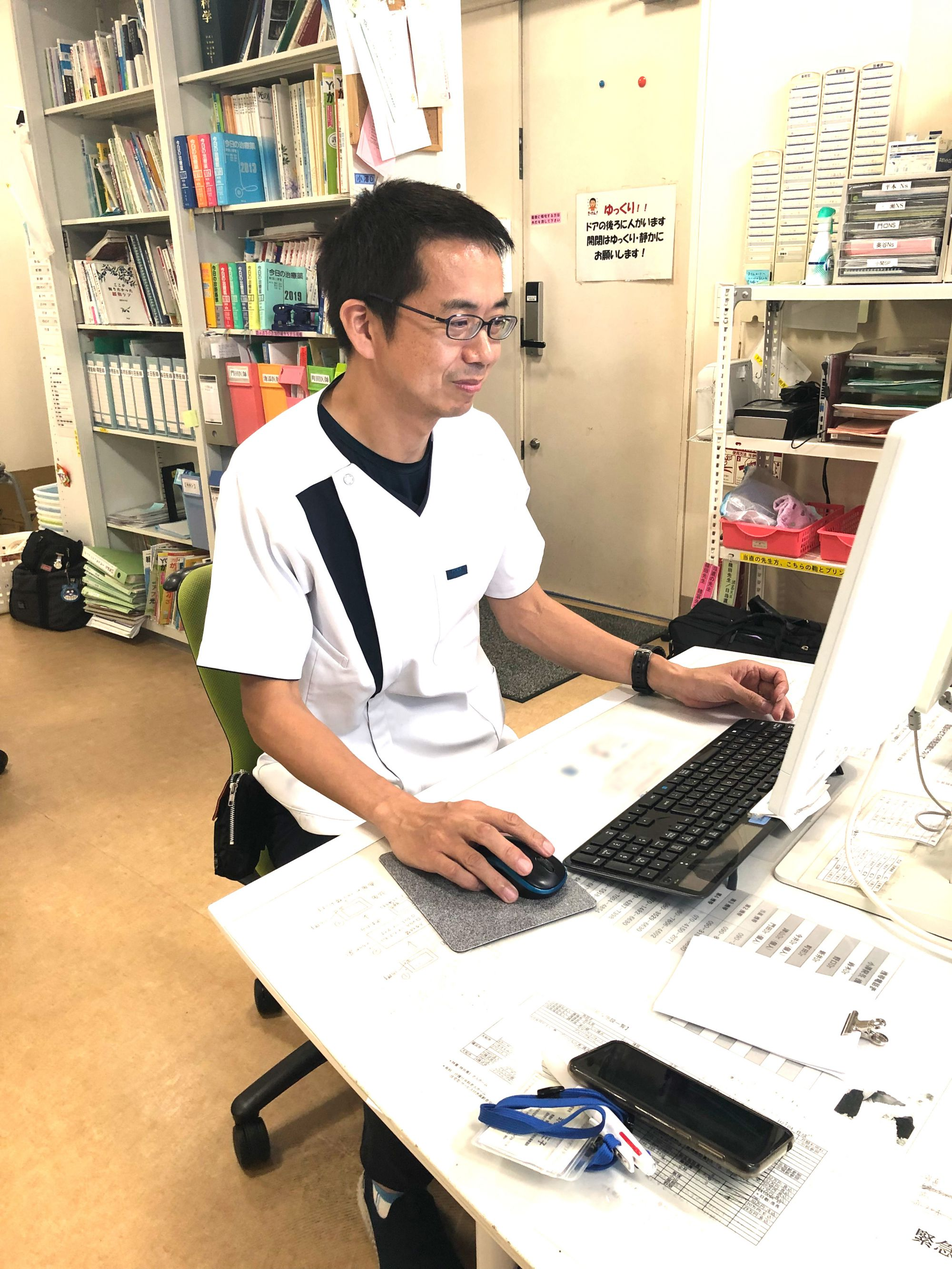
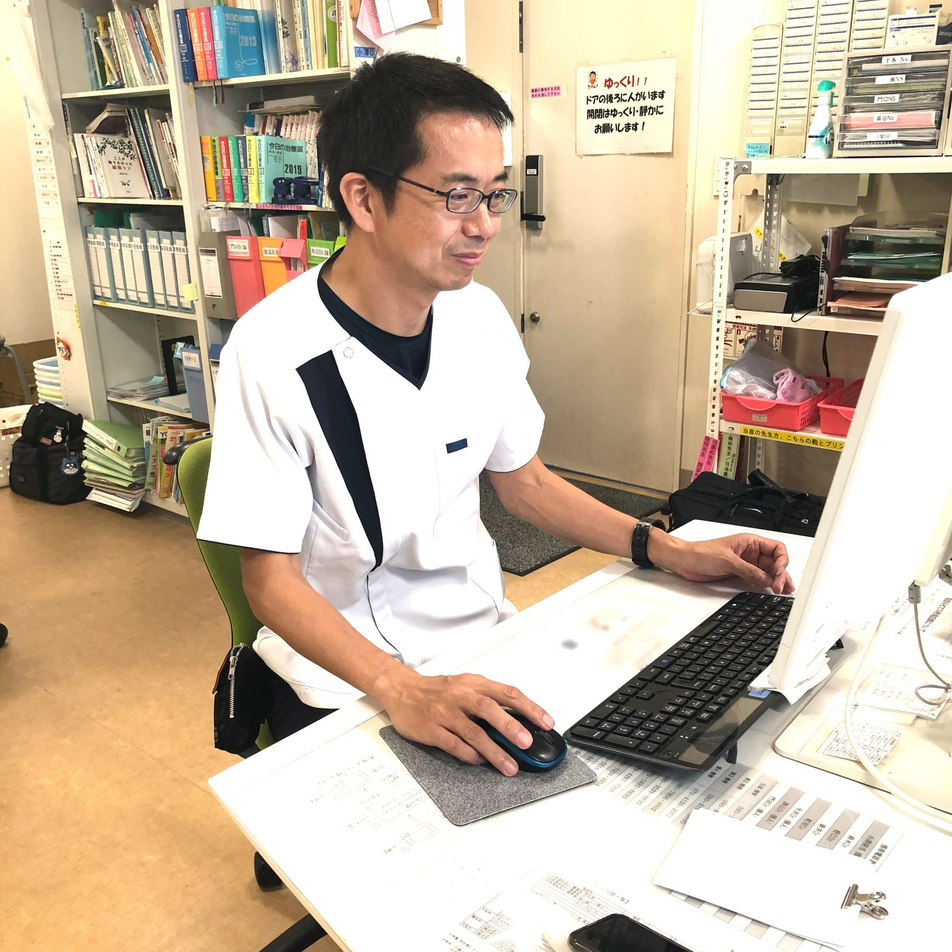
fix: スタッフ写真を画像ファイルレベルで正方形クロップに変更
CSS scale/positionでの調整を廃止し、sipsで全16枚を
顔中心の正方形にクロップ。表示は1:1のobject-cover。

diff --git a/src/data/staff.ts b/src/data/staff.ts
@@ -31,8 +31,8 @@ export const staffMembers: StaffMember[] = [
       "苦しんでいる人は、自分の苦しみをわかってくれる人がいると嬉しい。その信念のもと、在宅緩和ケアに取り組んでいます。",
     hasPhoto: true,
     photoFile: "director-portrait.jpg",
-    photoPosition: "center 20%",
-    photoScale: 1.8,
+    photoPosition: "center center",
+    photoScale: 1,
   },
   {
     name: "岩渕敬介",
@@ -58,8 +58,8 @@ export const staffMembers: StaffMember[] = [
       "川崎市出身。2004年横浜市立大学医学部卒業。神奈川県足柄上郡・北海道砂川市など、地域医師が少ない地域で18年間勤務。",
     hasPhoto: true,
     photoFile: "20230502.jpg",
-    photoPosition: "center 20%",
-    photoScale: 2.0,
+    photoPosition: "center center",
+    photoScale: 1,
   },
   {
     name: "津山梓",
@@ -82,8 +82,8 @@ export const staffMembers: StaffMember[] = [
       "横浜市出身。山口大学卒業後、家族ぐるみで診れる家庭医を目指す。",
     hasPhoto: true,
     photoFile: "20171128.jpg",
-    photoPosition: "center 25%",
-    photoScale: 1.3,
+    photoPosition: "center center",
+    photoScale: 1,
   },
   {
     name: "今井洋史",
@@ -109,8 +109,8 @@ export const staffMembers: StaffMember[] = [
       "どんな病気であったとしても、安心して自宅で生活を送るため、豊富な経験をもとにお手伝いいたします。",
     hasPhoto: true,
     photoFile: "doc-3.jpg",
-    photoPosition: "40% 15%",
-    photoScale: 2.5,
+    photoPosition: "center center",
+    photoScale: 1,
   },
   {
     name: "栗田瑛里子",
@@ -146,8 +146,8 @@ export const staffMembers: StaffMember[] = [
     societies: ["在宅医学会", "緩和医療学会"],
     hasPhoto: true,
     photoFile: "20171211.jpg",
-    photoPosition: "center 20%",
-    photoScale: 2.0,
+    photoPosition: "center center",
+    photoScale: 1,
   },
   {
     name: "門田庸子",
@@ -160,8 +160,8 @@ export const staffMembers: StaffMember[] = [
     interests: ["緩和ケア", "ペインクリニック", "アニマルセラピー"],
     hasPhoto: true,
     photoFile: "20171204.jpg",
-    photoPosition: "center 25%",
-    photoScale: 1.5,
+    photoPosition: "center center",
+    photoScale: 1,
   },
   {
     name: "小菅宇之",
@@ -179,8 +179,8 @@ export const staffMembers: StaffMember[] = [
       "在宅医療と救急医学は表裏一体の関係。訪問診療患者の生活が全体的にレベルアップできることを目指します。",
     hasPhoto: true,
     photoFile: "20171212-4.jpg",
-    photoPosition: "center 20%",
-    photoScale: 2.0,
+    photoPosition: "center center",
+    photoScale: 1,
   },
   {
     name: "太田一樹",
@@ -228,8 +228,8 @@ export const staffMembers: StaffMember[] = [
     interests: ["心臓病の地域リハビリテーション"],
     hasPhoto: true,
     photoFile: "20190814-4.jpg",
-    photoPosition: "center 15%",
-    photoScale: 2.0,
+    photoPosition: "center center",
+    photoScale: 1,
   },
   {
     name: "張秀一",
@@ -255,8 +255,8 @@ export const staffMembers: StaffMember[] = [
       "大学病院で新型コロナウィルス感染症診療や肺がん診療に携わってまいりました。",
     hasPhoto: true,
     photoFile: "20230425-1.jpg",
-    photoPosition: "center 20%",
-    photoScale: 2.0,
+    photoPosition: "center center",
+    photoScale: 1,
   },
   {
     name: "岡田知也",
@@ -295,8 +295,8 @@ export const staffMembers: StaffMember[] = [
       "地域に密着した在宅医療に興味を持ち、丁寧な対応を心がけ、患者さんやご家族が穏やかに過ごせるよう支援いたします。",
     hasPhoto: true,
     photoFile: "nurse-2.jpg",
-    photoPosition: "center 25%",
-    photoScale: 1.5,
+    photoPosition: "center center",
+    photoScale: 1,
   },
   {
     name: "佐藤郁恵",
@@ -307,8 +307,8 @@ export const staffMembers: StaffMember[] = [
       "在宅医療に関わってきて、患者さん、ご家族が在宅で穏やかに過ごせるようサポートいたします。",
     hasPhoto: true,
     photoFile: "20190826.jpg",
-    photoPosition: "center 25%",
-    photoScale: 1.5,
+    photoPosition: "center center",
+    photoScale: 1,
   },
   {
     name: "島津綾子",
@@ -326,8 +326,8 @@ export const staffMembers: StaffMember[] = [
     department: "看護",
     hasPhoto: true,
     photoFile: "20190814-3.jpg",
-    photoPosition: "center 25%",
-    photoScale: 1.5,
+    photoPosition: "center center",
+    photoScale: 1,
   },
   {
     name: "久保田明日香",
@@ -338,8 +338,8 @@ export const staffMembers: StaffMember[] = [
       "先生方と患者さんの診察がスムーズに運ぶよう、お手伝いさせていただきます。",
     hasPhoto: true,
     photoFile: "20230306.jpg",
-    photoPosition: "center 25%",
-    photoScale: 1.5,
+    photoPosition: "center center",
+    photoScale: 1,
   },
   {
     name: "片桐文",
@@ -350,8 +350,8 @@ export const staffMembers: StaffMember[] = [
       "患者さんとご家族の不安や苦痛に寄り添い、意思決定を支える看護師でありたいと思います。",
     hasPhoto: true,
     photoFile: "20231010.jpg",
-    photoPosition: "center 25%",
-    photoScale: 1.5,
+    photoPosition: "center center",
+    photoScale: 1,
   },
 
   // === 地域連携室 ===
@@ -364,8 +364,8 @@ export const staffMembers: StaffMember[] = [
       "訪問診療に関する相談とディグニティセラピーを担当。住み慣れた場所での過ごしをお手伝いいたします。",
     hasPhoto: true,
     photoFile: "regional-cooperation-1.jpg",
-    photoPosition: "center 25%",
-    photoScale: 1.5,
+    photoPosition: "center center",
+    photoScale: 1,
   },
   {
     name: "野場久美子",
@@ -376,8 +376,8 @@ export const staffMembers: StaffMember[] = [
       "患者さんが在宅生活を安心して過ごせるよう、お手伝いできればと思います。お気持ちに寄り添い、一緒に考えます。",
     hasPhoto: true,
     photoFile: "20230307.jpg",
-    photoPosition: "center 25%",
-    photoScale: 1.5,
+    photoPosition: "center center",
+    photoScale: 1,
   },
   {
     name: "村田英理子",
